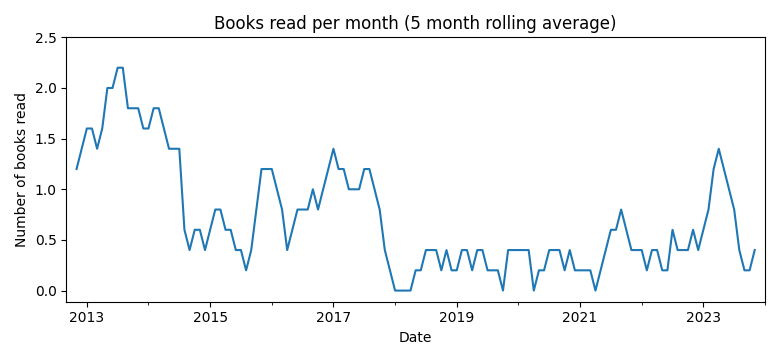
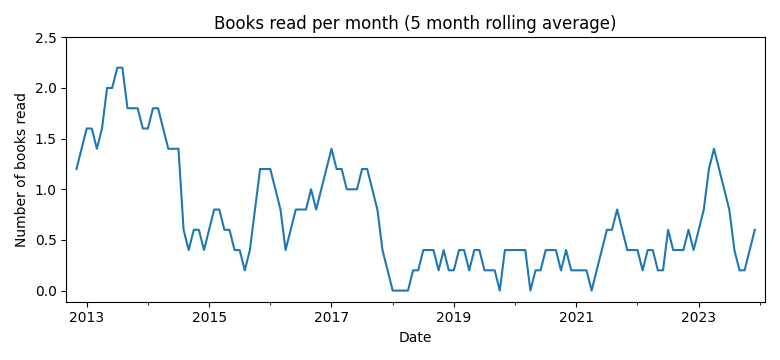
Hyperion

diff --git a/README.md b/README.md
@@ -6,13 +6,16 @@ The most significant events impacting the number of books I read are
 * The birth of my daughers in 2018/01 and 2019/08
 
 ### Statistics
-Total number of books read: 98  
-Books per month: 0.72 (2012/9 to 2024/1)
+Total number of books read: 99  
+Books per month: 0.72 (2012/9 to 2024/2)
 
 ![Books recorded by year](book_recorded.png)
 ![Books read per month](book_read.png)
 
 ### List of books
+*Hyperion*, Dan Simmons  
+Finished: 2024.02.07
+
 *The day the world stops shopping*, J.B. Mackinnon  
 Finished: 2024.01.25
 
